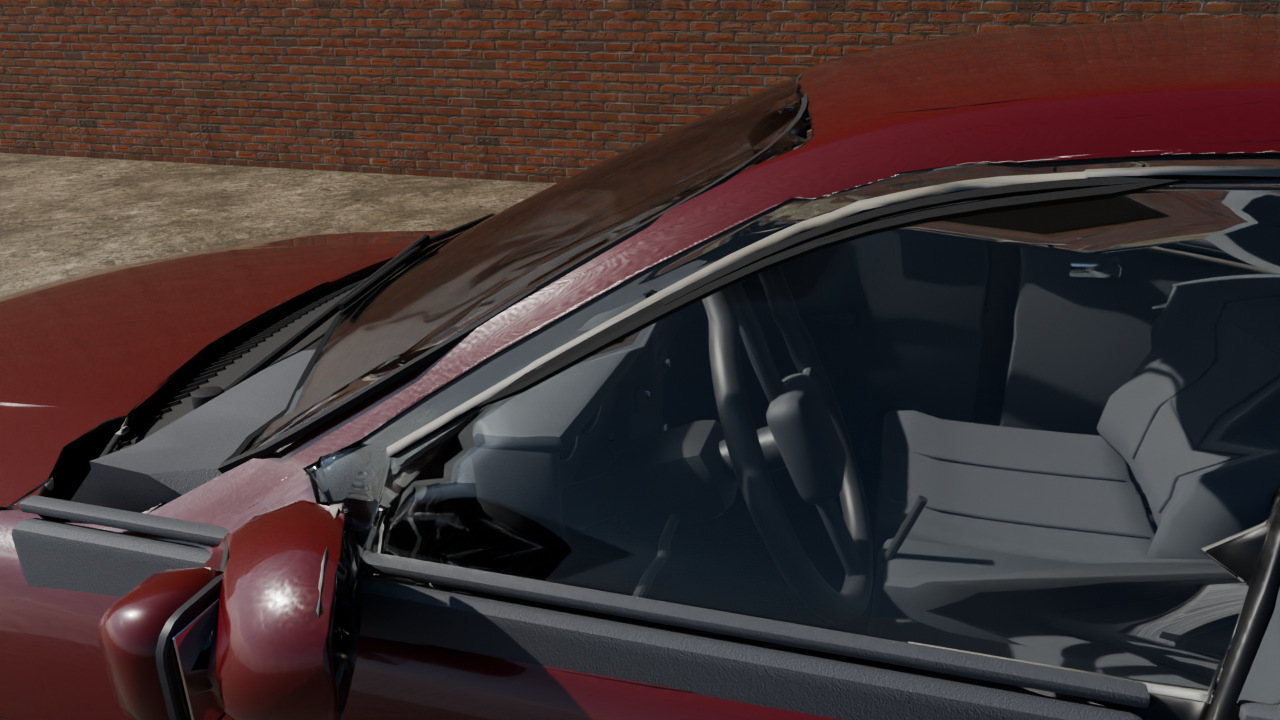
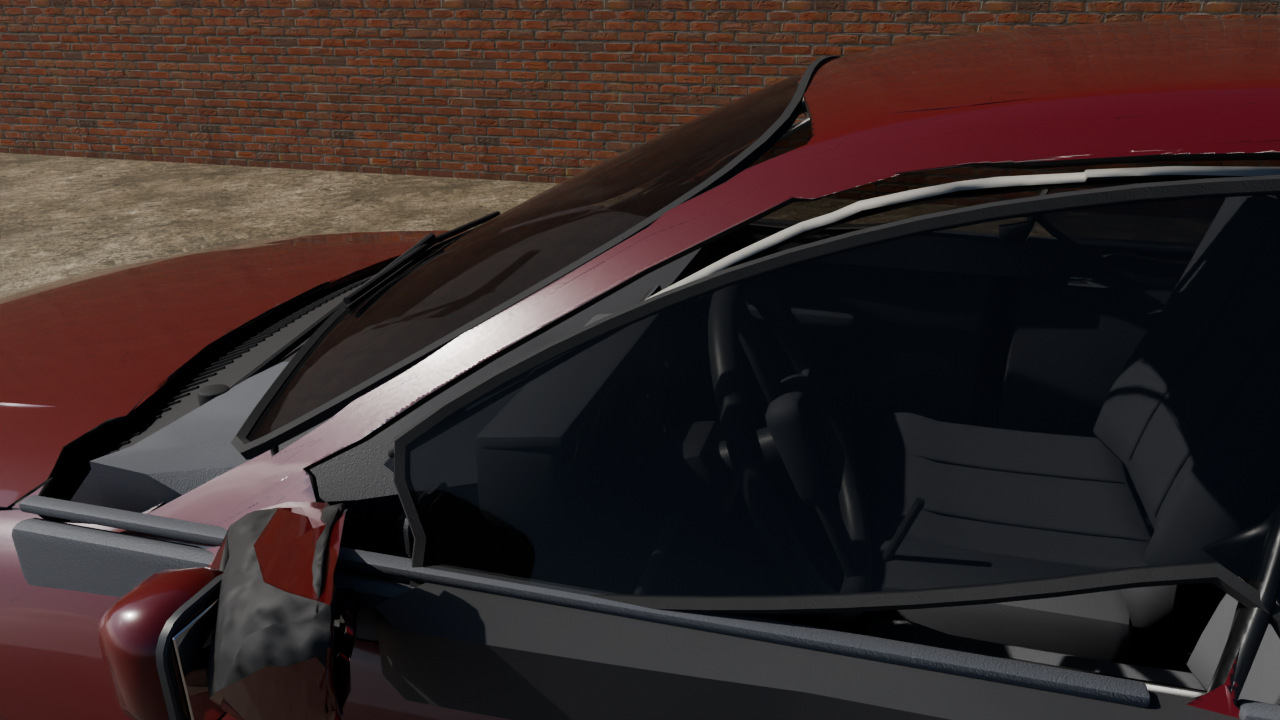
Work in progress: files from running agents; MetaHuman scout script
Claude-Session: https://claude.ai/code/session_01HkcHdD7NbyxwnFfuuSpZY4

diff --git a/tools/workflows/mi-metahuman-scout-wf_da99e2c6-991.js b/tools/workflows/mi-metahuman-scout-wf_da99e2c6-991.js
@@ -1,0 +1,24 @@
+export const meta = {
+  name: 'mi-metahuman-scout',
+  description: 'Scout whether MetaHuman (in-editor MetaHuman Creator, Mesh to MetaHuman, the outfit system) works on the box headless and offline, as a route to AAA Goons and the main character; prove it with one character if it does',
+  phases: [{ title: 'Scout', detail: 'find the plugins, test headless, build one proof character, report the route and its limits' }],
+}
+const BOXDIR = '/tmp/claude-0/-home-user-MURDER-INC-/143426e3-80dd-56d9-8134-6c37a8961002/scratchpad/box'
+const P = `PROJECT CONTEXT
+/home/user/MURDER-INC. holds "MURDER INC.", a browser shooter being rebuilt in Unreal Engine 5.9 with photoreal graphics (read docs/unreal/RESUME.md and docs/unreal/CHARACTERS.md first). The characters built procedurally in Blender have plateaued: after three rounds an independent reviewer still grades the three enemy Goons 1.5-2 out of 5 (latex-looking masks, sack hoods, blob gloves) and the main character's generated likeness about 3.5. The user's standing instruction is next-gen realism. MetaHuman is Epic's route to AAA humans, and recent engine versions bring MetaHuman Creator into the editor (MetaHuman plugins, Mesh to MetaHuman, parametric bodies, an outfit/clothing system, the MetaHuman Character asset), but it may need an Epic account, online services or a desktop window.
+
+YOUR TASK: find out, on the box, whether this route works for us, and prove it if it does.
+1. On the box, look for MetaHuman plugins in /project/ue/UnrealEngine/Engine/Plugins (and Marketplace or Fab folders) and read their .uplugin files: which modules, whether they declare online or cloud dependencies, whether the editor must have a window. Read their Python API (the stubs the editor writes, or grep the plugin source and headers for UFUNCTIONs exposed to scripting) for creating a MetaHuman Character asset, setting the face and body parameters, conforming to a mesh (Mesh to MetaHuman / identity from a mesh), choosing grooms, assembling the result into a skeletal mesh, and whether its skeleton is compatible with SK_Mannequin (MetaHuman bodies share the UE5 mannequin body skeleton plus face bones: verify).
+2. In a NEW scratch project of your own, /project/ue/metahuman (MCP port 8006; copy the set-up docs/unreal/BOX.md and tools/box/chars describe), enable the plugins and try, headless: create a MetaHuman Character, set it to a heavy-set adult male in a hooded sweatshirt look (an enemy), assemble it, and render it under a sun at 1 m and 3 m. If the generation step needs a cloud service or a login, find out exactly what fails and whether an offline path exists (local auto-rig, local texture synthesis, the parametric body alone). Do not enter or ask for any credentials, and do not sign in to anything.
+3. If you get a character: check that the mannequin rifle clips play on it, that clothing can be added (MetaHuman outfit assets, or our cloth-simulated Goon garments fitted to the MetaHuman body), and measure triangle counts, texture sizes and the memory per character at LOD0 and lower LODs.
+4. Mesh to MetaHuman for the main character: say whether the engine can make a MetaHuman identity from a head mesh offline (our generated head is art/out/glb/SK_Rule.glb; it is private: never commit it, never send it anywhere outside the box and Higgsfield storage, never write the person's name). Only test it if step 2 worked without any login; otherwise just report what it needs.
+LICENCE: MetaHuman output may be used in Unreal projects under Epic's terms, but nothing Epic-derived is committed (the repository is public): pictures of results only.
+
+THE BOX: mcp__Higgsfield__gpu_rental_exec (ToolSearch "select:mcp__Higgsfield__gpu_rental_exec,mcp__Higgsfield__gpu_rental,mcp__Higgsfield__gpu_rent,mcp__Higgsfield__media_upload,mcp__Higgsfield__media_confirm"); session_id = the single line of ` + BOXDIR + `/session. One bash command per call as root, finished within 45 s (timeout_s 50); longer work with setsid nohup and polling; the engine refuses root (su ue4 -c); headless only (-RenderOffscreen -unattended -nosplash -NoSound) through /project/ue/bin/run-editor.sh. Other agents use the box (gameplay clone 8001 is busy with the first-person work, characters 8002, animpack 8003): never touch their projects or editors; stop your own editor by process id; free -g first. Never call gpu_rental_stop. If the box is gone (a call says not running AND gpu_rental reports status ended): cat the session file again and use a new id if there is one; otherwise take the first line of ` + BOXDIR + `/keys not in ` + BOXDIR + `/used, append it to used, call mcp__Higgsfield__gpu_rent with exactly gpu_type "RTX-PRO-6000", gpu_count 1, kind "desktop", cpu 16, memory_gib 64, max_credits_per_hour 114, idempotency_key = that line; poll until working, write the id into the session file, run /project/ue/bin/ensure-setup.sh every 30 s until SETUP-DONE. Do not call any Higgsfield generation tool.
+GIT: write docs/unreal/METAHUMAN.md (findings, the working recipe or the exact blocker, commands) and any scripts under tools/box/metahuman/; at most four pictures docs/unreal/shots/metahuman-*.jpg (git add -f), look at each. Explicit git add paths, never -A; push to claude/tender-albattani-5q78qr (if rejected: git pull --no-rebase --no-edit, then push); never force-push, never a pull request. End every commit message with exactly these two lines and no model name anywhere else:
+Co-Authored-By: Claude Opus 5.5 <noreply@anthropic.com>
+Claude-Session: https://claude.ai/code/session_01HkcHdD7NbyxwnFfuuSpZY4
+
+Reply through the structured output: verdict (works_offline, works_with_login, does_not_work, plus two sentences), findings, blocker (exact, if any), what_the_user_must_do (if anything: e.g. sign in once in a desktop editor, enable a plugin from Fab), proof_pictures, recommendation (at most 100 words: should the Goons and the main character move to MetaHuman).`
+phase('Scout')
+return await agent(P, { label: 'metahuman:scout', phase: 'Scout', schema: { type: 'object', properties: { verdict: { type: 'string' }, findings: { type: 'array', items: { type: 'string' } }, blocker: { type: 'string' }, what_the_user_must_do: { type: 'string' }, proof_pictures: { type: 'array', items: { type: 'string' } }, recommendation: { type: 'string' } }, required: ['verdict', 'findings', 'recommendation'] }, effort: 'high', model: 'opus' })

diff --git a/art/blender/assets/vehicles.py b/art/blender/assets/vehicles.py
@@ -1336,8 +1336,12 @@ def make_parts(ctx, key):
                      & (cls == CLS["paint"]) & (n[:, 0] * (1 if front else -1) > 0.5))
             # (close-up pass 3) the generated holder stays paint, and whatever of it stands in front of the plate
             # (the dark diagonal line across the front plate) is pushed back behind the modelled recess
-            # (close-up pass 4) the holder area stays paint (it read as a large grey crumpled patch): a modelled
-            # dark recess card stands behind the plate instead (make_plates)
+            # (close-up pass 4) the holder area takes the class round it (paint on a boot lid, it read as a large
+            # grey crumpled patch; dark on a black bumper); a modelled dark recess card stands behind the plate
+            ring = ((np.abs(c[:, 0] - pc[0]) < 0.25) & (np.abs(c[:, 1] - pc[1]) < pc[3] / 2 + 0.20)
+                    & (np.abs(c[:, 2] - pc[2]) < pc[4] / 2 + 0.16) & ~under & np.isin(cls, [CLS["paint"], CLS["trim"]]))
+            if ring.sum() > 20 and (cls[ring] == CLS["trim"]).mean() > 0.5:
+                cls[under] = CLS["trim"]
             co_ = gen3d.verts(ob)
             sgn = 1 if front else -1
             near_ = (np.abs(co_[:, 1] - pc[1]) < 0.19) & (np.abs(co_[:, 2] - pc[2]) < 0.11)
@@ -1829,8 +1833,11 @@ def plan_mirrors(c, n, cls, spec):
         if reg.sum() < 6:
             continue
         cls[reg] = CLS["drop"]
-        out.append((float(np.median(c[reg, 0])), sd * yd, float(np.median(c[reg, 2])),
-                    float(np.percentile(np.abs(c[reg, 1]), 99))))
+        mxm, mzm = float(np.median(c[reg, 0])), float(np.median(c[reg, 2]))
+        # (close-up pass 4) the crumpled sail under the generated mirror (proud of the door skin by under 2 cm)
+        cls[(np.abs(c[:, 0] - mxm) < 0.11) & (np.abs(c[:, 2] - mzm) < 0.10) & (c[:, 1] * sd > yd + 0.006)
+            & (cls != CLS["glass"])] = CLS["drop"]
+        out.append((mxm, sd * yd, mzm, float(np.percentile(np.abs(c[reg, 1]), 99))))
     return out
 
 
